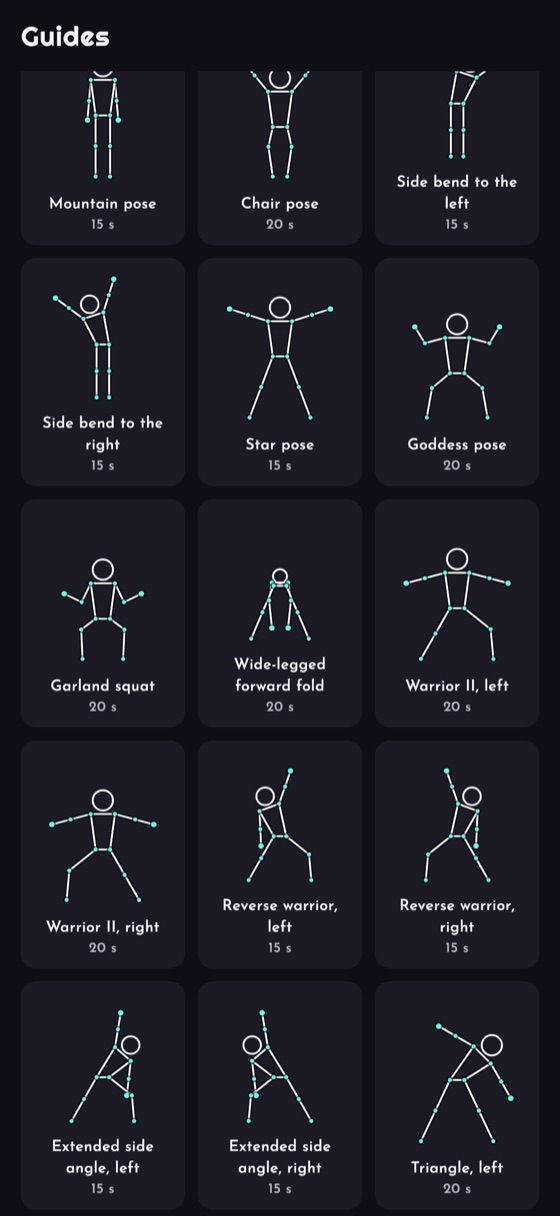
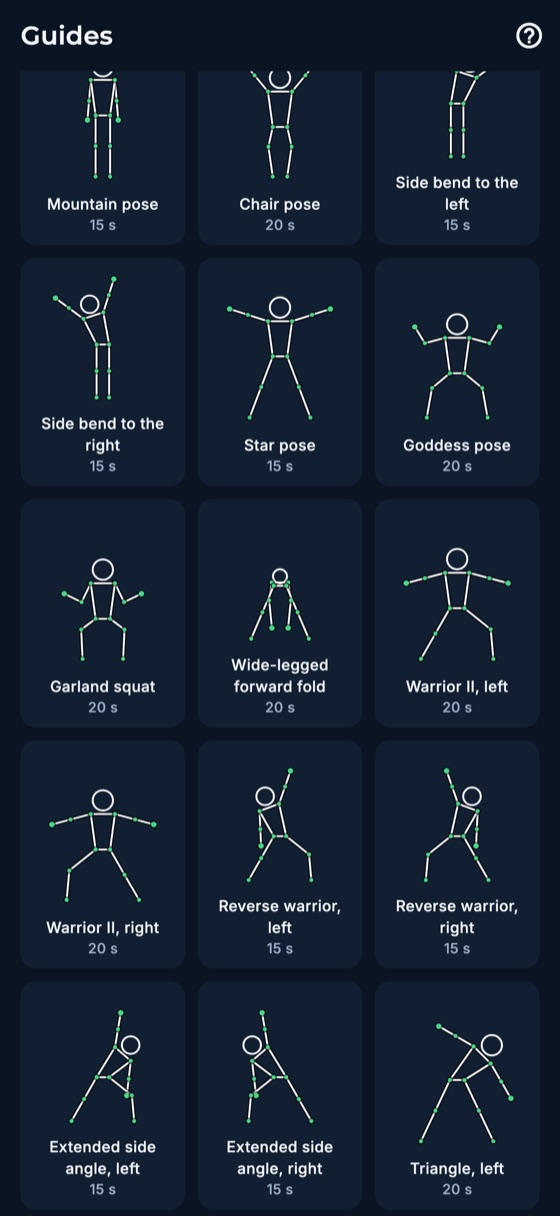
Rebrand to FormForward: F² mark, navy/blue palette, category band, hero lines

diff --git a/assets/css/site.css b/assets/css/site.css
@@ -1,20 +1,24 @@
 /* PerfectRep site: AnalytiTech brand, dark. Colors match the app (contrast-checked). */
 :root {
-  --bg: #0f0e15;
-  --surface: #1b1a25;
-  --surface-high: #262533;
-  --primary: #03978f;
-  --action: #2bd9c9;
-  --on-action: #0f0e15;
-  --accent: #65ffef;
-  --spark: #ff9f5a;
-  --text: #f4f4f6;
-  --muted: #b4b2c2;
-  --outline: #4a4858;
+  /* FormForward: deep navy, electric blue, fresh green (brand mood board). */
+  --bg: #0a1422;
+  --surface: #121f33;
+  --surface-high: #1b2b46;
+  --primary: #1683f2;
+  --action: #0e6fd8;      /* filled buttons: white text passes 4.5:1 */
+  --on-action: #ffffff;
+  --accent: #3daeff;      /* sky blue: links and highlights on navy */
+  --green: #47d98a;
+  --purple: #8b7cff;
+  --spark: #ff7a45;
+  --gold: #f5b935;
+  --text: #f3f6fb;
+  --muted: #9fb0c6;
+  --outline: #2c3f60;
   --radius: 18px;
   --max: 1120px;
-  --heading: "Righteous", system-ui, sans-serif;
-  --body: "Josefin Sans", system-ui, sans-serif;
+  --heading: "Montserrat", system-ui, sans-serif;
+  --body: "Inter", system-ui, sans-serif;
 }
 
 * { box-sizing: border-box; }
@@ -30,8 +34,8 @@ body {
 }
 img { max-width: 100%; display: block; }
 a { color: var(--accent); }
-h1, h2, h3 { font-family: var(--heading); font-weight: 400; line-height: 1.15; margin: 0 0 .5em; }
-h1 { font-size: clamp(2.3rem, 5vw, 3.8rem); }
+h1, h2, h3 { font-family: var(--heading); font-weight: 800; line-height: 1.12; margin: 0 0 .5em; letter-spacing: -.01em; }
+h1 { font-size: clamp(2.1rem, 4vw, 3.1rem); }
 h2 { font-size: clamp(1.8rem, 3.6vw, 2.6rem); }
 h3 { font-size: 1.3rem; }
 p { margin: 0 0 1em; }
@@ -41,6 +45,7 @@ section { padding: 80px 0; }
 section.alt { background: var(--surface); }
 .eyebrow {
   font-family: var(--heading);
+  font-weight: 700;
   color: var(--accent);
   letter-spacing: .16em;
   text-transform: uppercase;
@@ -61,7 +66,8 @@ section.alt { background: var(--surface); }
 .site-header .wrap { display: flex; align-items: center; gap: 16px; height: 68px; }
 .brand { display: flex; align-items: center; gap: 10px; text-decoration: none; color: var(--text); }
 .brand img { height: 34px; width: auto; }
-.brand span { font-family: var(--heading); font-size: 1.35rem; }
+.brand span { font-family: var(--heading); font-weight: 800; font-size: 1.3rem; }
+.brand span b { color: var(--accent); font-weight: 800; }
 .nav { margin-left: auto; display: flex; gap: 22px; align-items: center; }
 .nav a { color: var(--muted); text-decoration: none; font-size: .98rem; }
 .nav a:hover { color: var(--text); }
@@ -115,7 +121,7 @@ section.alt { background: var(--surface); }
 section.alt .step { background: var(--surface-high); }
 .step .num {
   width: 42px; height: 42px; border-radius: 50%; display: grid; place-items: center;
-  background: var(--primary); font-family: var(--heading); margin-bottom: 14px;
+  background: var(--primary); font-family: var(--heading); font-weight: 800; margin-bottom: 14px;
 }
 @media (max-width: 760px) { .steps { grid-template-columns: 1fr; } }
 
@@ -146,17 +152,17 @@ section.alt .step { background: var(--surface-high); }
   padding: 18px 22px; border-radius: 0 var(--radius) var(--radius) 0; margin: 20px 0;
   font-size: 1.1rem;
 }
-.callout b { color: var(--accent); font-family: var(--heading); font-weight: 400; }
+.callout b { color: var(--accent); font-family: var(--heading); font-weight: 800; }
 
 /* Pricing */
 .plans { display: grid; grid-template-columns: repeat(2, 1fr); gap: 20px; max-width: 820px; margin: 36px auto 0; }
 .plan { background: var(--surface); border-radius: var(--radius); padding: 30px; border: 2px solid var(--surface-high); }
 .plan.pro { border-color: var(--primary); }
-.plan .price { font-family: var(--heading); font-size: 2.4rem; }
+.plan .price { font-family: var(--heading); font-weight: 800; font-size: 2.4rem; }
 .plan .price small { font-family: var(--body); font-size: 1rem; color: var(--muted); }
 .plan ul { padding-left: 1.1em; color: var(--muted); }
 .plan .tag {
-  display: inline-block; background: var(--spark); color: var(--on-action);
+  display: inline-block; background: var(--spark); color: var(--bg);
   font-weight: 700; font-size: .8rem; padding: 3px 10px; border-radius: 999px; margin-bottom: 10px;
 }
 @media (max-width: 720px) { .plans { grid-template-columns: 1fr; } }
@@ -188,3 +194,26 @@ section.alt .faq details { background: var(--surface-high); }
 .site-footer nav { display: flex; flex-wrap: wrap; gap: 18px; }
 .site-footer a { color: var(--muted); text-decoration: none; }
 .site-footer a:hover { color: var(--text); }
+
+/* Hero glow and tagline */
+.hero { background: radial-gradient(900px 520px at 85% 10%, rgba(22,131,242,.28), transparent 60%), radial-gradient(700px 420px at 10% 90%, rgba(71,217,138,.12), transparent 60%); }
+.tagline { font-family: var(--heading); font-weight: 600; letter-spacing: .3em; text-transform: uppercase; font-size: .78rem; color: var(--muted); margin-top: 22px; }
+.hero h1 { text-transform: none; }
+
+/* Category band (mood board) */
+.band { background: #08101c; border-block: 1px solid var(--surface-high); padding: 34px 0; }
+.band .wrap { display: grid; grid-template-columns: repeat(5, 1fr); }
+.cat { text-align: center; padding: 6px 12px; border-left: 1px solid var(--surface-high); }
+.cat:first-child { border-left: 0; }
+.cat svg { width: 46px; height: 46px; display: block; margin: 0 auto 10px; fill: none; stroke: currentColor; stroke-width: 2; stroke-linecap: round; stroke-linejoin: round; }
+.cat b { display: block; font-family: var(--heading); font-weight: 700; letter-spacing: .08em; color: var(--text); font-size: .95rem; }
+.cat span { color: var(--muted); font-size: .92rem; }
+@media (max-width: 760px) {
+  .band .wrap { grid-template-columns: repeat(2, 1fr); row-gap: 22px; }
+  .cat { border-left: 0; }
+  .cat:last-child { grid-column: span 2; }
+}
+
+/* Footer company mark */
+.company { display: flex; align-items: center; gap: 10px; margin-bottom: 8px; }
+.company img { height: 26px; width: auto; }

diff --git a/templates/index.html b/templates/index.html
@@ -4,7 +4,7 @@
 {{> head}}
 <title>{{appName}}: AI motion coach for sport, yoga and rehab</title>
 <meta name="description" content="{{appName}} turns your phone's camera into a real-time motion coach. Swing, stance, dribbling, yoga and range of motion, measured on your phone. No wearables, no account, nothing uploaded.">
-<meta property="og:title" content="{{appName}}: every rep, measured and coached">
+<meta property="og:title" content="{{appName}}: move with purpose, get real feedback">
 <meta property="og:description" content="Your phone's camera becomes a real-time motion coach for sport, yoga and rehab.">
 </head>
 <body>
@@ -15,18 +15,29 @@
     <div class="wrap">
       <div>
         <div class="eyebrow">AI motion coach · by AnalytiTech</div>
-        <h1>Every rep, <span>measured</span> and coached.</h1>
+        <h1>Move with purpose.<br><span>Get real feedback.</span><br>See real progress.</h1>
         <p class="lede">{{appName}} turns your phone's camera into a real-time motion coach. Prop it up, move, and get your swing, stance, form and range of motion measured on the spot, with {{coachName}} counting every rep and pushing you when you want it to.</p>
         <div class="btn-row">
           <a class="btn btn-primary" href="#get">Get early access</a>
           <a class="btn btn-outline" href="#sports">See what it measures</a>
         </div>
         <p class="muted" style="margin-top:18px;font-size:.95rem">No wearables. No account. Everything runs on your phone.</p>
+        <div class="tagline">{{tagline}}</div>
       </div>
       <div class="phones">
         <div class="phone"><img src="/assets/img/shot-01_home.jpg" alt="{{appName}} home screen with tracking, sports and training"></div>
         <div class="phone"><img src="/assets/img/shot-09_basketball.jpg" alt="Basketball analyses: jump shot, dribbling and defensive stance"></div>
       </div>
+    </div>
+  </section>
+
+  <section class="band" aria-label="What FormForward covers">
+    <div class="wrap">
+      <div class="cat" style="color:var(--primary)"><svg viewBox="0 0 48 48" aria-hidden="true"><circle cx="30" cy="8" r="4"/><path d="M14 20l8-6 8 4 6 8"/><path d="M22 14l-4 14 10 6-4 10"/><path d="M18 28l-8 4"/><path d="M30 18l-2 10"/></svg><b>SPORTS</b><span>Improve performance</span></div>
+      <div class="cat" style="color:var(--green)"><svg viewBox="0 0 48 48" aria-hidden="true"><rect x="6" y="16" width="6" height="16" rx="2"/><rect x="36" y="16" width="6" height="16" rx="2"/><rect x="12" y="19" width="5" height="10" rx="1.5"/><rect x="31" y="19" width="5" height="10" rx="1.5"/><path d="M17 24h14"/></svg><b>FITNESS</b><span>Train with better form</span></div>
+      <div class="cat" style="color:var(--purple)"><svg viewBox="0 0 48 48" aria-hidden="true"><circle cx="24" cy="9" r="4"/><path d="M24 14v12"/><path d="M12 22c4 2 8 3 12 3s8-1 12-3"/><path d="M10 36c4-4 9-6 14-6s10 2 14 6"/><path d="M14 36h20"/></svg><b>YOGA</b><span>Build strength and balance</span></div>
+      <div class="cat" style="color:var(--spark)"><svg viewBox="0 0 48 48" aria-hidden="true"><path d="M18 6h12v12h12v12H30v12H18V30H6V18h12z"/><path d="M14 24h5l3-5 4 10 3-5h5"/></svg><b>REHAB</b><span>Move forward with confidence</span></div>
+      <div class="cat" style="color:var(--gold)"><svg viewBox="0 0 48 48" aria-hidden="true"><path d="M4 18l20-9 20 9-20 9z"/><path d="M12 22v9c3 3 7 5 12 5s9-2 12-5v-9"/><path d="M44 18v12"/></svg><b>TEACH</b><span>Your movements. Your model.</span></div>
     </div>
   </section>
 
@@ -201,7 +212,7 @@
       <h2>Be first to try {{appName}}</h2>
       <p class="lede">Coming soon to the App Store and Google Play. Join the early-access list and lock in the founding-member price.</p>
       <div class="btn-row">
-        <a class="btn btn-primary" href="mailto:{{partnersEmail}}?subject=PerfectRep%20early%20access&amp;body=Sports%20or%20activities%20I%E2%80%99m%20interested%20in%3A%20">Get early access</a>
+        <a class="btn btn-primary" href="mailto:{{partnersEmail}}?subject={{appName}}%20early%20access&amp;body=Sports%20or%20activities%20I%E2%80%99m%20interested%20in%3A%20">Get early access</a>
       </div>
       <div class="btn-row">
         <span class="badge-soon">App Store · coming soon</span>

diff --git a/partials/head.html b/partials/head.html
@@ -1,9 +1,11 @@
 <meta charset="utf-8">
 <meta name="viewport" content="width=device-width, initial-scale=1">
 <link rel="icon" href="/assets/img/favicon.png">
+<link rel="apple-touch-icon" href="/assets/img/apple-touch-icon.png">
+<meta name="theme-color" content="#0a1422">
 <link rel="preconnect" href="https://fonts.googleapis.com">
 <link rel="preconnect" href="https://fonts.gstatic.com" crossorigin>
-<link href="https://fonts.googleapis.com/css2?family=Josefin+Sans:wght@400;600;700&family=Righteous&display=swap" rel="stylesheet">
+<link href="https://fonts.googleapis.com/css2?family=Inter:wght@400;500;600;700&family=Montserrat:wght@600;700;800&display=swap" rel="stylesheet">
 <link rel="stylesheet" href="/assets/css/site.css">
 <meta property="og:site_name" content="{{appName}} by AnalytiTech">
 <meta property="og:image" content="{{domain}}/assets/img/og.png">

diff --git a/templates/partners.html b/templates/partners.html
@@ -50,7 +50,7 @@
     <div class="wrap center">
       <h2>Interested?</h2>
       <p class="lede">Tell us who you coach or treat and what you'd want to measure. We'll set you up in person if you're local.</p>
-      <div class="btn-row"><a class="btn btn-primary" href="mailto:{{partnersEmail}}?subject=PerfectRep%20launch%20partner">Email us</a></div>
+      <div class="btn-row"><a class="btn btn-primary" href="mailto:{{partnersEmail}}?subject={{appName}}%20launch%20partner">Email us</a></div>
     </div>
   </section>
 </main>

diff --git a/partials/footer.html b/partials/footer.html
@@ -1,7 +1,8 @@
 <footer class="site-footer">
   <div class="wrap">
     <div>
-      <strong style="color:var(--text)">{{appName}}</strong> by {{company}}<br>
+      <div class="company"><img src="/assets/img/logo.png" alt="AnalytiTech logo"><strong style="color:var(--text)">{{company}}</strong></div>
+      <strong style="color:var(--text)">{{appName}}</strong> · {{tagline}}<br>
       Also from AnalytiTech: Golf Swing AI.<br>
       © {{year}} {{company}}
     </div>

diff --git a/partials/header.html b/partials/header.html
@@ -1,6 +1,6 @@
 <header class="site-header">
   <div class="wrap">
-    <a class="brand" href="/"><img src="/assets/img/logo.png" alt="AnalytiTech logo"><span>{{appName}}</span></a>
+    <a class="brand" href="/"><img src="/assets/img/mark.png" alt="FormForward F-squared logo"><span>Form<b>Forward</b></span></a>
     <nav class="nav">
       <a class="hide-sm" href="/#sports">Sports</a>
       <a class="hide-sm" href="/#coach">{{coachName}}</a>
